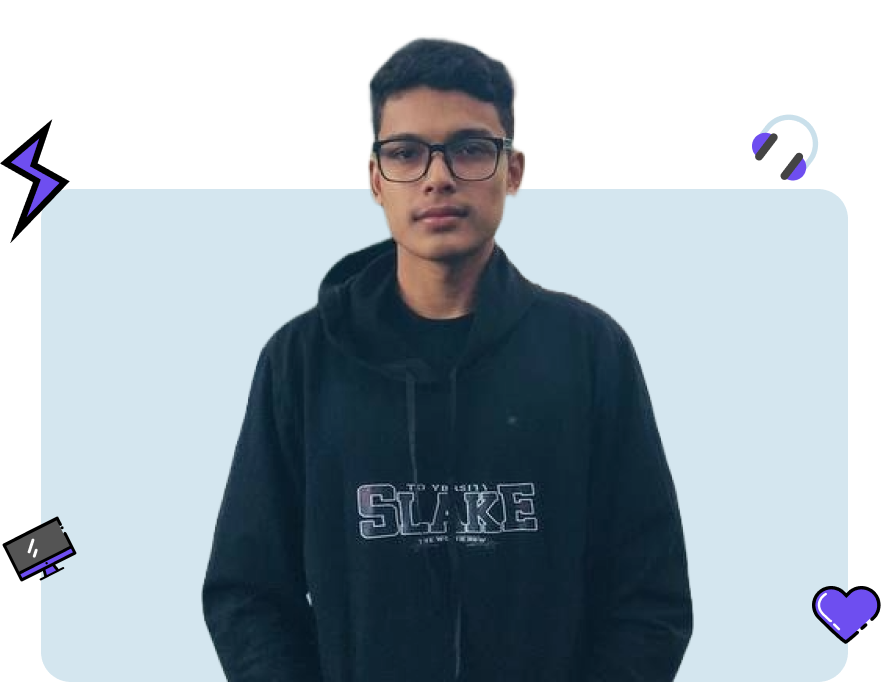
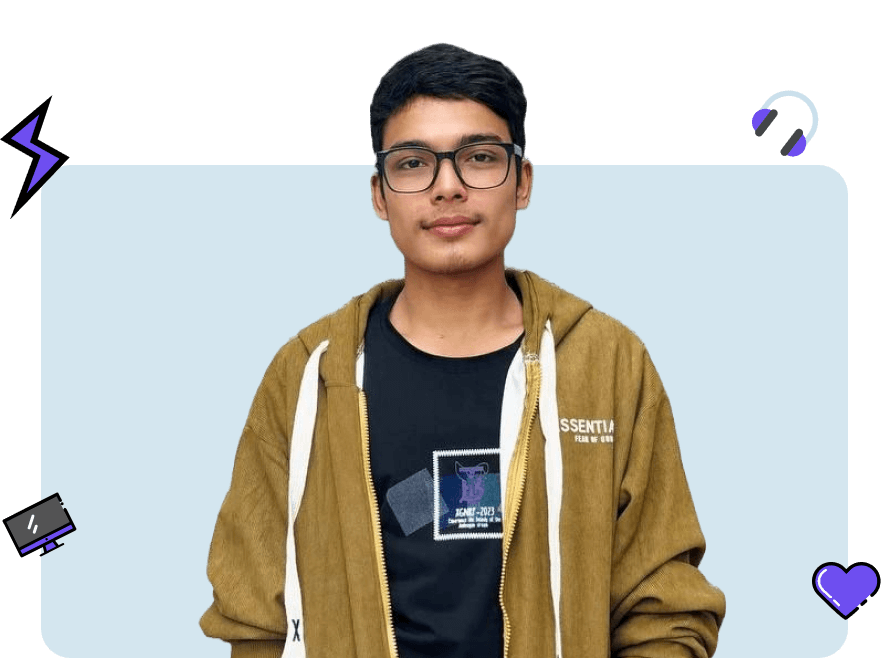
change header image and modify UI for mobile #16

diff --git a/src/components/header/header.css b/src/components/header/header.css
@@ -21,7 +21,7 @@
   margin-bottom: 0px;
 }
 
-.header-left p {
+.header-left .objective {
   width: 75%;
   margin-bottom: 40px;
 }
@@ -40,23 +40,19 @@
 
 .resume {
   display: flex;
-  gap: 30px;
+  gap: 10px;
 }
 
 .reach-me-home {
-  width: 100%;
-}
-.reach-me-home,
-.reach-me-home p {
   display: flex;
-  gap: 10px;
+  gap: 20px;
   align-items: center;
-  justify-content: center;
 }
 
-.reach-me-home p,
-p.reach-me-home {
-  margin-bottom: 9px;
+.reach-me-home p {
+  display: flex;
+  align-items: center;
+  gap: 8px;
 }
 
 /* ====================
@@ -74,7 +70,7 @@ p.reach-me-home {
     text-align: center;
   }
 
-  .header-left p,
+  .header-left .objective,
   .header-right,
   .header-right img {
     width: 100%;
@@ -83,14 +79,26 @@ p.reach-me-home {
   .header-right img {
     margin-top: 7vw;
   }
+  .reach-me-home {
+    justify-content: center;
+  }
+  .reach-me-home p {
+    text-align: center;
+  }
 }
 
-@media screen and (max-width: 376px) {
+@media screen and (max-width: 396px) {
   .resume {
     flex-direction: column;
     gap: 8px;
   }
   .reach-me-home {
     flex-direction: column;
+  }
+  .header-left .objective {
+    margin-bottom: 20px;
+  }
+  .header-left a {
+    margin-top: 10px;
   }
 }

diff --git a/src/components/header/Header.jsx b/src/components/header/Header.jsx
@@ -40,21 +40,18 @@ function Header() {
               )}
             </ScrollAnimation>
             <ScrollAnimation>
-              <p className="small">
+              <p className="objective small">
                 I bring ideas to life through clean and user-friendly
                 interfaces. Let's create something extraordinary together!
               </p>
-              {/* <p className="contact-info">
-                <ImMail4 /> min384223@gmail.com | <FaViber /> +959791883158
-              </p> */}
-              <p className="reach-me-home">
+              <div className="reach-me-home">
                 <p>
                   <ImMail4 /> min384223@gmail.com
                 </p>
                 <p>
                   <FaViber /> +959791883158
                 </p>
-              </p>
+              </div>
             </ScrollAnimation>
             <ScrollAnimation>
               <div className="resume">
@@ -74,7 +71,7 @@ function Header() {
 
           <div className="header-right">
             <ScrollAnimation>
-              <img src={Me} alt="Photo of Me" />
+              <img src={Me} alt="Photo of Min Khant" />
             </ScrollAnimation>
           </div>
         </div>

diff --git a/src/components/testimonial/Testimonial.jsx b/src/components/testimonial/Testimonial.jsx
@@ -9,6 +9,8 @@ import {
   Lithan,
   Scrimba,
   Yadanabon,
+  stars3,
+  stars4,
 } from "../Image";
 import ScrollAnimation from "../utils/ScrollAnimation";
 
@@ -45,6 +47,7 @@ function Testtmonial() {
       start: "20.1.2022",
       end: "Ongoing",
       img: Lithan,
+      star: stars4,
     },
     {
       name: "Scrimba Academy",
@@ -52,6 +55,7 @@ function Testtmonial() {
       start: "26.2.2023",
       end: "10.12.2023",
       img: Scrimba,
+      star: stars,
     },
     {
       name: "Yadanabon University",
@@ -59,6 +63,7 @@ function Testtmonial() {
       start: "16.6.2018",
       end: "Ongoing",
       img: Yadanabon,
+      star: stars3,
     },
   ];
 
@@ -66,7 +71,7 @@ function Testtmonial() {
   const testimonialsCard = educationData.map((data, index) => (
     <div key={index} className="card flex-col education">
       <ScrollAnimation>
-        <img className="stars" src={stars} alt="Stars" />
+        <img className="stars" src={data.star} alt="Stars" />
       </ScrollAnimation>
 
       <ScrollAnimation>

diff --git a/src/components/Image.js b/src/components/Image.js
@@ -6,6 +6,8 @@ import person1 from "../assets/person1.png";
 import person2 from "../assets/person2.png";
 import person3 from "../assets/person3.png";
 import stars from "../assets/stars.png";
+import stars4 from "../assets/Stars4.png";
+import stars3 from "../assets/Stars3.png";
 
 // Skills
 import frontDev from "../assets/frontend-dev.png";
@@ -85,4 +87,6 @@ export {
   Scrimba,
   Lithan,
   Yadanabon,
+  stars3,
+  stars4,
 };
